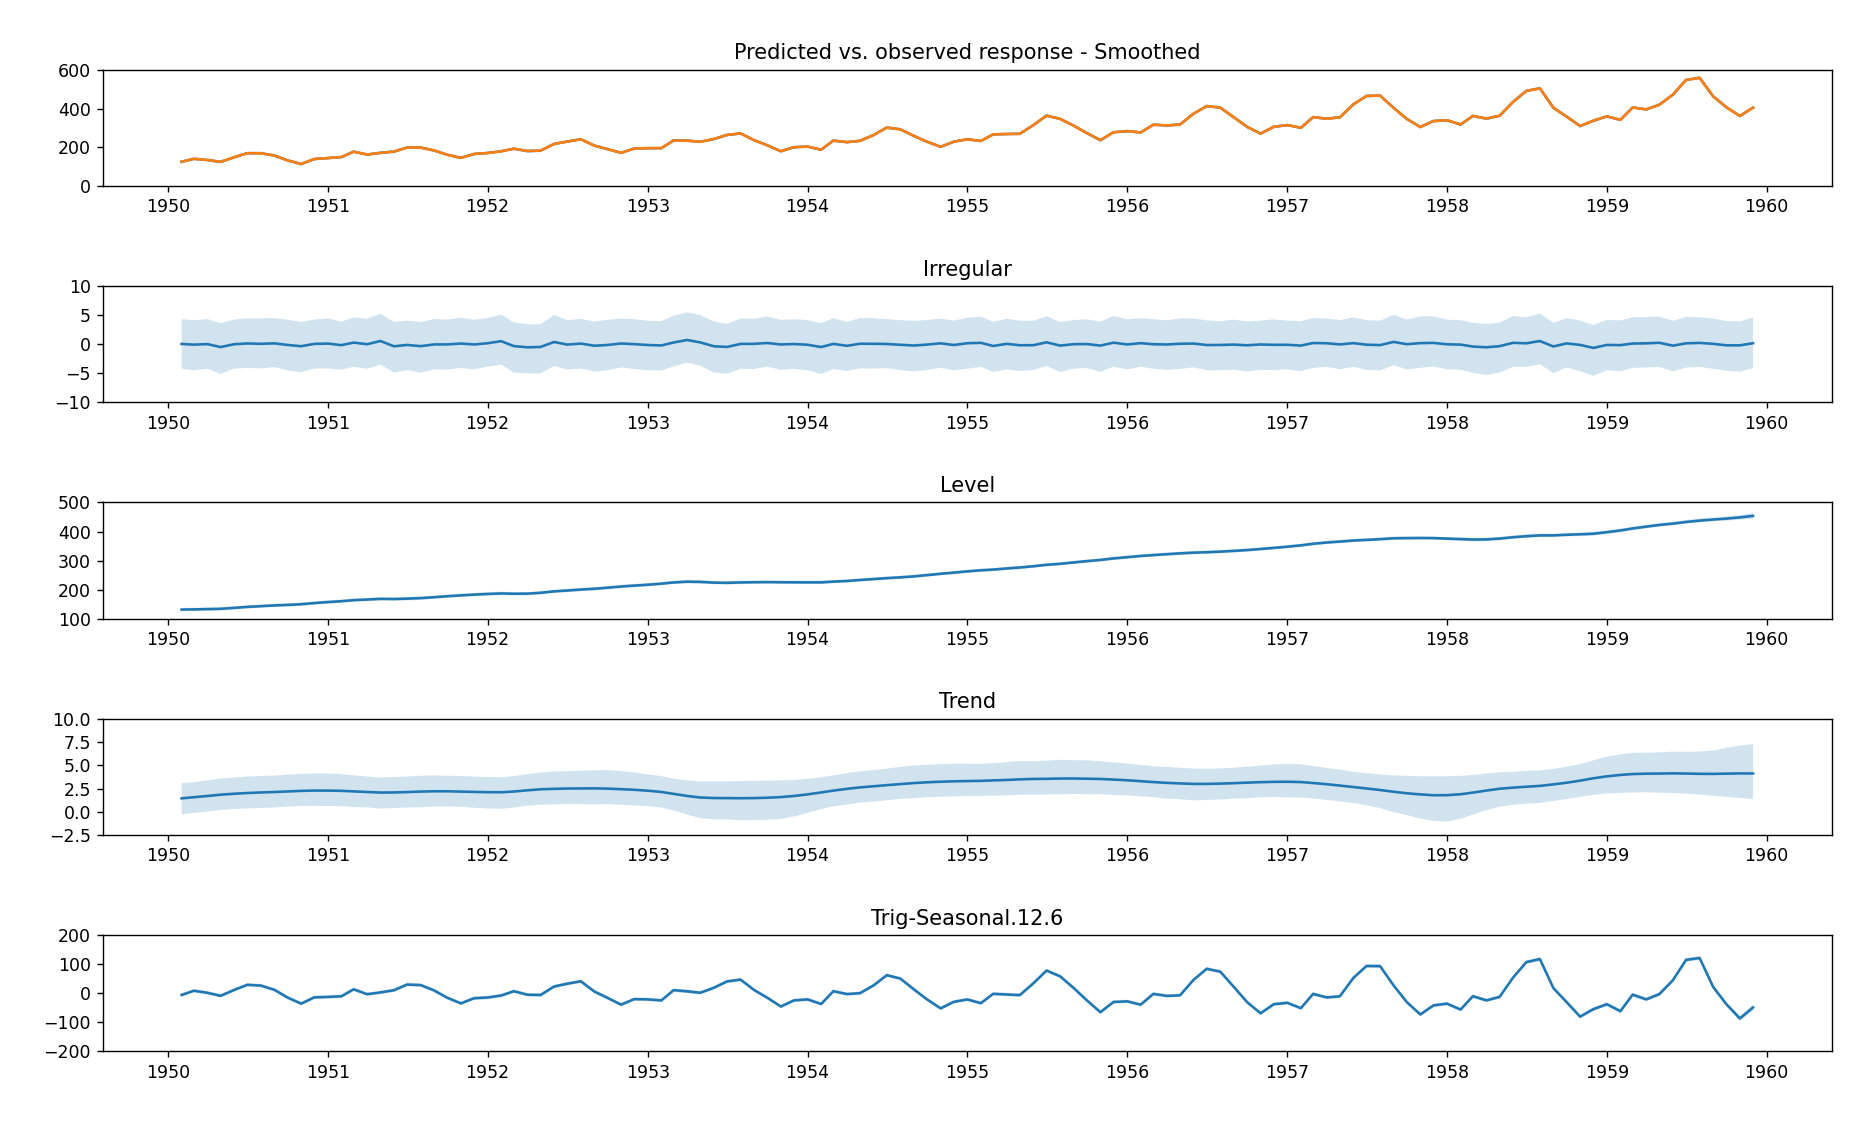
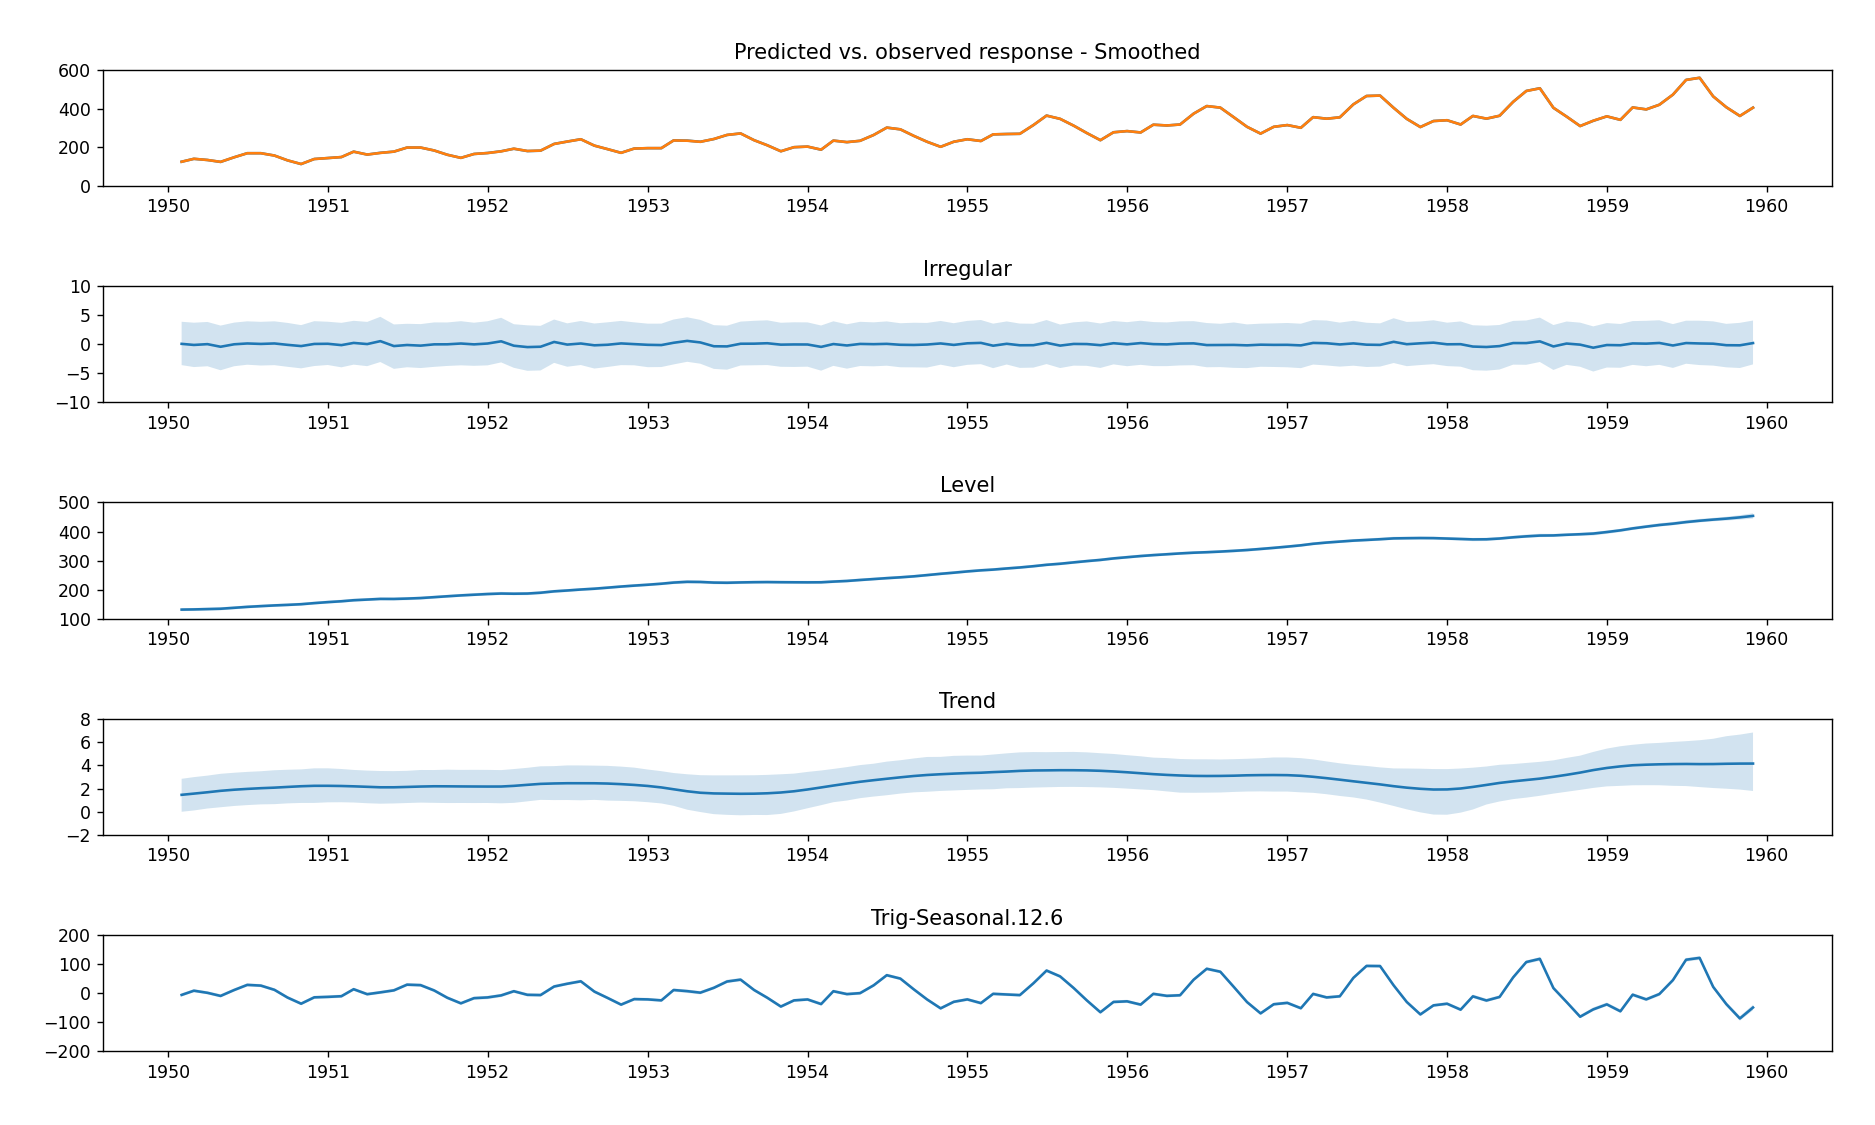
Update to default variance priors - Each variance prior now has `shape=3`. The scale priors are multiplied by a factor of (3 - 1) so that mean of the prior distribution is (0.01 * std(y))^2 for response, level, and seasonal variances, and (0.25 * 0.01 * std(y))^2 for the trend variance. - The trend 

diff --git a/pybuc/buc.py b/pybuc/buc.py
@@ -1705,11 +1705,11 @@ class BayesianUnobservedComponents:
         n = self.num_obs
         q = self.num_stoch_states
         m = self.num_state_eqs
-        default_shape_prior = 0.01
+        default_shape_prior = 3.0
 
         if scale_response:
             y = self._scale_response(self.response)
-            default_root_scale = 0.01
+            default_root_scale = 0.01 * (default_shape_prior - 1.0)
             scaler = self.response_scale
             if back_transform:
                 back_tform_resp_scaler = self.response_scale
@@ -1717,7 +1717,7 @@ class BayesianUnobservedComponents:
                 back_tform_resp_scaler = 1.0
         else:
             y = self.response
-            default_root_scale = 0.01 * self.response_scale
+            default_root_scale = 0.01 * (default_shape_prior - 1.0) * self.response_scale
             scaler, back_tform_resp_scaler = 1.0, 1.0
 
         back_tform_pred_scaler = None
@@ -1868,7 +1868,7 @@ class BayesianUnobservedComponents:
                     trend_var_shape_prior = default_shape_prior
 
                 if trend_var_scale_prior is None:
-                    trend_var_scale_prior = (0.2 * default_root_scale) ** 2
+                    trend_var_scale_prior = (0.25 * default_root_scale) ** 2
                 else:
                     trend_var_scale_prior = trend_var_scale_prior / scaler ** 2
 
@@ -2529,16 +2529,16 @@ class BayesianUnobservedComponents:
         removes all non-stationary draws from the posterior. Default is False.
 
         :param response_var_shape_prior: int, float > 0. Specifies the inverse-Gamma shape prior for the
-        response error variance. Default is 0.01.
+        response error variance. Default is 3.
 
         :param response_var_scale_prior: int, float > 0. Specifies the inverse-Gamma scale prior for the
-        response error variance. Default is (0.01 * std(response))^2.
+        response error variance. Default is (0.01 * (3 - 1) * std(response))^2.
 
         :param level_var_shape_prior: int, float > 0. Specifies the inverse-Gamma shape prior for the
-        level state equation error variance. Default is 0.01.
+        level state equation error variance. Default is 3.
 
         :param level_var_scale_prior: int, float > 0. Specifies the inverse-Gamma scale prior for the
-        level state equation error variance. (0.01 * std(response))^2.
+        level state equation error variance. (0.01 * (3 - 1) * std(response))^2.
 
         :param damped_level_coeff_mean_prior: Numpy array, list, or tuple. Specifies the prior
         mean for the coefficient governing the level's AR(1) process without drift. Default is [[1.]].
@@ -2548,10 +2548,10 @@ class BayesianUnobservedComponents:
         Default is [[1.]].
 
         :param trend_var_shape_prior: int, float > 0. Specifies the inverse-Gamma shape prior for the
-        trend state equation error variance. Default is 0.01.
+        trend state equation error variance. Default is 3.
 
         :param trend_var_scale_prior: int, float > 0. Specifies the inverse-Gamma scale prior for the
-        trend state equation error variance. Default is (0.2 * 0.01 * std(response))^2.
+        trend state equation error variance. Default is (0.25 * 0.01 * (3 - 1) * std(response))^2.
 
         :param damped_trend_coeff_mean_prior: Numpy array, list, or tuple. Specifies the prior
         mean for the coefficient governing the trend's AR(1) process without drift. Default is [[1.]].
@@ -2562,11 +2562,11 @@ class BayesianUnobservedComponents:
 
         :param lag_season_var_shape_prior: tuple of int, float > 0 with s elements, where s is the number of
         stochastic periodicities. Specifies the inverse-Gamma shape priors for each periodicity in lag_seasonal.
-        Default is 0.01 for each periodicity.
+        Default is 3 for each periodicity.
 
         :param lag_season_var_scale_prior: tuple of int, float > 0 with s elements, where s is the number of
         stochastic periodicities. Specifies the inverse-Gamma scale priors for each periodicity in lag_seasonal.
-        Default is (0.01 * std(response))^2 for each periodicity.
+        Default is (0.01 * (3 - 1) * std(response))^2 for each periodicity.
 
         :param damped_lag_season_coeff_mean_prior: Numpy array, list, or tuple with s elements, where s is the
         number of stochastic periodicities with damping specified. Specifies the prior mean for the coefficient
@@ -2579,23 +2579,23 @@ class BayesianUnobservedComponents:
 
         :param dum_season_var_shape_prior: tuple of int, float > 0 with s elements, where s is the number of
         stochastic periodicities. Specifies the inverse-Gamma shape priors for each periodicity in dummy_seasonal.
-        Default is 0.01 for each periodicity.
+        Default is 3 for each periodicity.
 
         :param dum_season_var_scale_prior: tuple of int, float > 0 with s elements, where s is the number of
         stochastic periodicities. Specifies the inverse-Gamma scale priors for each periodicity in dummy_seasonal.
-        Default is (0.01 * std(response))^2 for each periodicity.
+        Default is (0.01 * (3 - 1) * std(response))^2 for each periodicity.
 
         :param trig_season_var_shape_prior: tuple of int, float > 0 with s elements, where s is the number of
         stochastic periodicities. Specifies the inverse-Gamma shape priors for each periodicity in trig_seasonal.
         For example, if trig_seasonal = ((12, 3), (10, 2)) and stochastic_trig_seasonal = (True, False), only one
         shape prior needs to be specified, namely for periodicity 12.
-        Default is 0.01 for each periodicity.
+        Default is 3 for each periodicity.
 
         :param trig_season_var_scale_prior: tuple of int, float > 0 with s elements, where s is the number of
         stochastic periodicities. Specifies the inverse-Gamma scale priors for each periodicity in trig_seasonal.
         For example, if trig_seasonal = ((12, 3), (10, 2)) and stochastic_trig_seasonal = (True, False), only two
         scale priors need to be specified, namely periodicity 12.
-        Default is (0.01 * std(response))^2 / # of state equations for each periodicity. Note that whatever
+        Default is (0.01 * (3 - 1 ) * std(response))^2 / # of state equations for each periodicity. Note that whatever
         value is passed to trig_season_var_scale_prior is automatically scaled by the number of state
         equations implied by the periodicity and number of harmonics.
 

diff --git a/README.md b/README.md
@@ -237,10 +237,10 @@ bayes_uc = BayesianUnobservedComponents(
     stochastic_trend=True,
     trig_seasonal=((12, 0),),
     stochastic_trig_seasonal=(True,),
-    seed=123
+    seed=1234
 )
 post = bayes_uc.sample(10000)
-burn = 1000
+burn = 2000
 
 # Print summary of estimated parameters
 for key, value in bayes_uc.summary(burn=burn).items():
@@ -280,7 +280,7 @@ print(f"BAYES-UC RMSE: {rmse(y_test.to_numpy(), forecast_mean)}")
 ```
 
 ```
-BAYES-UC RMSE: 17.80041873850468
+BAYES-UC RMSE: 17.69810613398663
 ```
 
 The Bayesian Unobserved Components forecast plot, components plot, and RMSE are shown below.
@@ -455,7 +455,7 @@ Back-transformation can be managed with the `back_transform` argument in the `sa
 The default prior for irregular variance is:
 
 $$
-\sigma^2_{\mathrm{irregular}} \sim \mathrm{IG}(0.01, (0.01 * \mathrm{Std.Dev}(y))^2)
+\sigma^2_{\mathrm{irregular}} \sim \mathrm{IG}(3, (0.01 * (3 - 1) * \mathrm{Std.Dev}(y))^2)
 $$
 
 If no priors are given for variances corresponding to stochastic states (i.e., level, trend, and seasonality), 
@@ -463,16 +463,21 @@ the following defaults are used:
 
 $$
 \begin{align}
-    \sigma^2_{\mathrm{level}} &\sim \mathrm{IG}(0.01, (0.01 * \mathrm{Std.Dev}(y))^2) \\
-    \sigma^2_{\mathrm{seasonal}} &\sim \mathrm{IG}(0.01, (0.01 * \mathrm{Std.Dev}(y))^2) \\
-    \sigma^2_{\mathrm{trend}} &\sim \mathrm{IG}(0.01, (0.2 * 0.01 * \mathrm{Std.Dev}(y))^2) \\
+    \sigma^2_{\mathrm{level}} &\sim \mathrm{IG}(3, (0.01 * (3 - 1) * \mathrm{Std.Dev}(y))^2) \\
+    \sigma^2_{\mathrm{seasonal}} &\sim \mathrm{IG}(3, (0.01 * (3 - 1) * \mathrm{Std.Dev}(y))^2) \\
+    \sigma^2_{\mathrm{trend}} &\sim \mathrm{IG}(3, (0.25 * 0.01 * (3 - 1) * \mathrm{Std.Dev}(y))^2) \\
 \end{align}
 $$
 
-Priors for irregular, level, and seasonal variances match the defaults in R's `bsts` package. However, the default prior 
-for trend variance is more conservative in `pybuc`. This is reflected by a standard deviation that is one-fifth the 
-magnitude of the level standard deviation. The purpose is to mitigate the impact that noise in the data could have on 
-producing an overly aggressive trend.
+These priors differ from the defaults in R's `bsts` package. Each shape value is 3 instead of 0.01 like in `bsts`. This 
+guarantees the existence of a mean and variance for the inverse-gamma distribution, which helps to regularize these 
+parameters. The scale priors for level and seasonality mirror the default scale priors in `bsts` in spirit
+(($0.01 * \mathrm{Std.Dev}(y))^2$). The difference is the factor $(3 - 1)$, which forces the mean of the variance to be 
+$(0.01 * \mathrm{Std.Dev}(y))^2$.
+
+The default prior for trend variance is also more conservative in `pybuc`. This is reflected by a standard deviation 
+that is one-fourth the size (in standard deviation) of the rest of the scale priors. The purpose is to mitigate the 
+impact that noise in the data could have on producing an overly aggressive and/or volatile trend.
 
 **Note that the scale prior for trigonometric seasonality is automatically scaled by the number of state 
 equations implied by the period and number of harmonics. For example, if the trigonometric seasonality scale prior 
